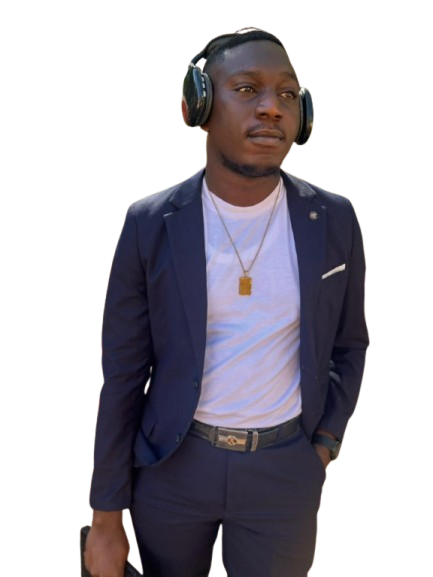
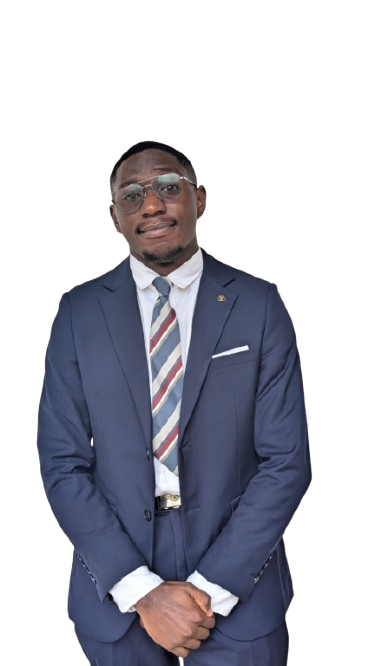
v

diff --git a/src/components/ProjectCarousel.tsx b/src/components/ProjectCarousel.tsx
@@ -118,7 +118,7 @@ export const ProjectCarousel = () => {
     const accentHex = isLight ? '#16a34a' : '#22d3ee';
     const spotHex = isLight ? '#15803d' : '#0ea5e9';
     const panelColor = isLight ? '#111111' : '#e4e4e7';
-    const titleColor = isLight ? '#ffffff' : '#111827';
+    const titleColor = isLight ? 'white' : '#111827';
     const panelMetalness = isLight ? 0.8 : 0.12;
     const panelRoughness = isLight ? 0.2 : 0.65;
 
